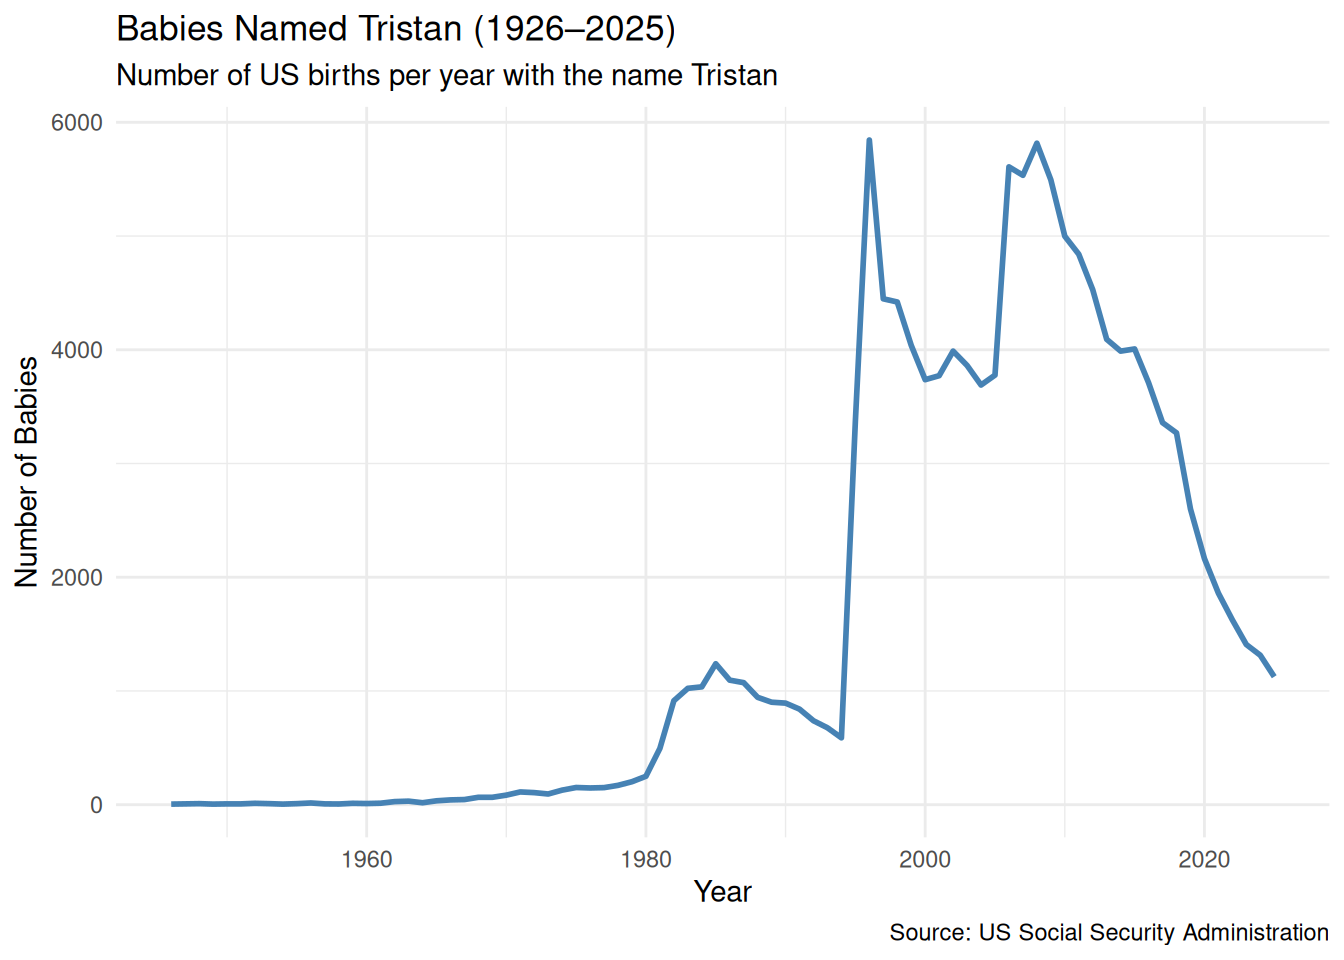
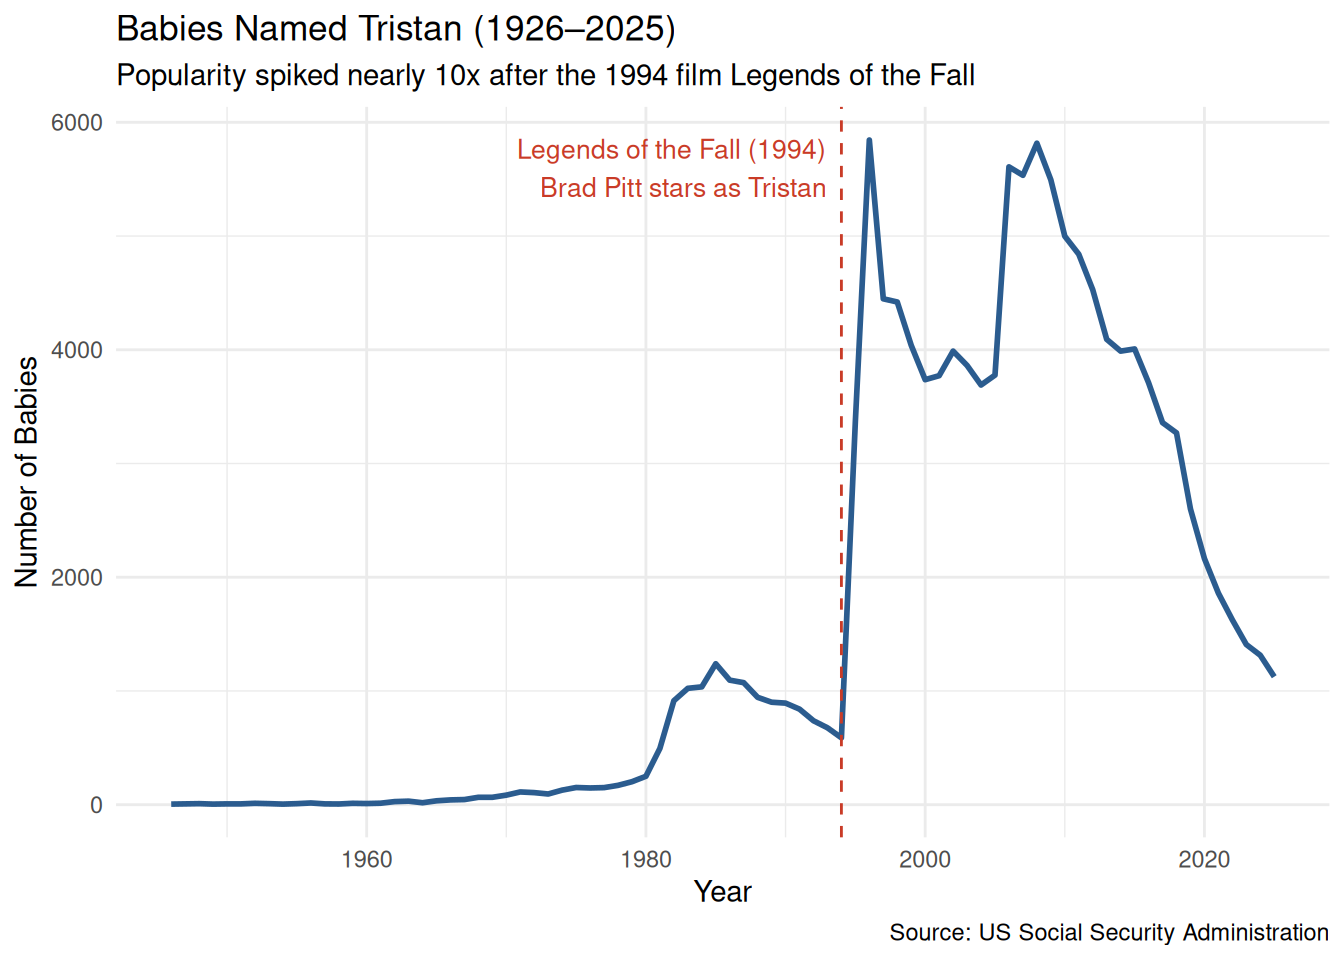
Built site for gh-pages

diff --git a/babynames.html b/babynames.html
@@ -78,6 +78,26 @@ ul.task-list li input[type="checkbox"] {
 </div>
 </div>
 </div>
+<div class="callout callout-style-default callout-note no-icon callout-titled">
+<div class="callout-header d-flex align-content-center">
+<div class="callout-icon-container">
+<i class="callout-icon no-icon"></i>
+</div>
+<div class="callout-title-container flex-fill">
+<span class="screen-reader-only">Note</span><em>Legends of the Fall</em> and the 1995 Spike
+</div>
+</div>
+<div class="callout-body-container callout-body">
+<p>In December 1994, the film <strong><em>Legends of the Fall</em></strong> was released in theaters, starring Brad Pitt as the passionate lead character <strong>Tristan Ludlow</strong>.</p>
+<p>Before the film (1994), only 588 babies in the US were named Tristan. By 1996, that number surged to <strong>5,844</strong> — an almost tenfold increase!</p>
+<div class="quarto-figure quarto-figure-center">
+<figure class="figure">
+<p><img src="legends_of_the_fall.gif" class="img-fluid figure-img" width="500"></p>
+<figcaption>Brad Pitt as Tristan in <em>Legends of the Fall</em></figcaption>
+</figure>
+</div>
+</div>
+</div>
 
 </main>
 <!-- /main column -->

diff --git a/index.html b/index.html
@@ -78,6 +78,26 @@ ul.task-list li input[type="checkbox"] {
 </div>
 </div>
 </div>
+<div class="callout callout-style-default callout-note no-icon callout-titled">
+<div class="callout-header d-flex align-content-center">
+<div class="callout-icon-container">
+<i class="callout-icon no-icon"></i>
+</div>
+<div class="callout-title-container flex-fill">
+<span class="screen-reader-only">Note</span><em>Legends of the Fall</em> and the 1995 Spike
+</div>
+</div>
+<div class="callout-body-container callout-body">
+<p>In December 1994, the film <strong><em>Legends of the Fall</em></strong> was released in theaters, starring Brad Pitt as the passionate lead character <strong>Tristan Ludlow</strong>.</p>
+<p>Before the film (1994), only 588 babies in the US were named Tristan. By 1996, that number surged to <strong>5,844</strong> — an almost tenfold increase!</p>
+<div class="quarto-figure quarto-figure-center">
+<figure class="figure">
+<p><img src="legends_of_the_fall.gif" class="img-fluid figure-img" width="500"></p>
+<figcaption>Brad Pitt as Tristan in <em>Legends of the Fall</em></figcaption>
+</figure>
+</div>
+</div>
+</div>
 
 </main>
 <!-- /main column -->
